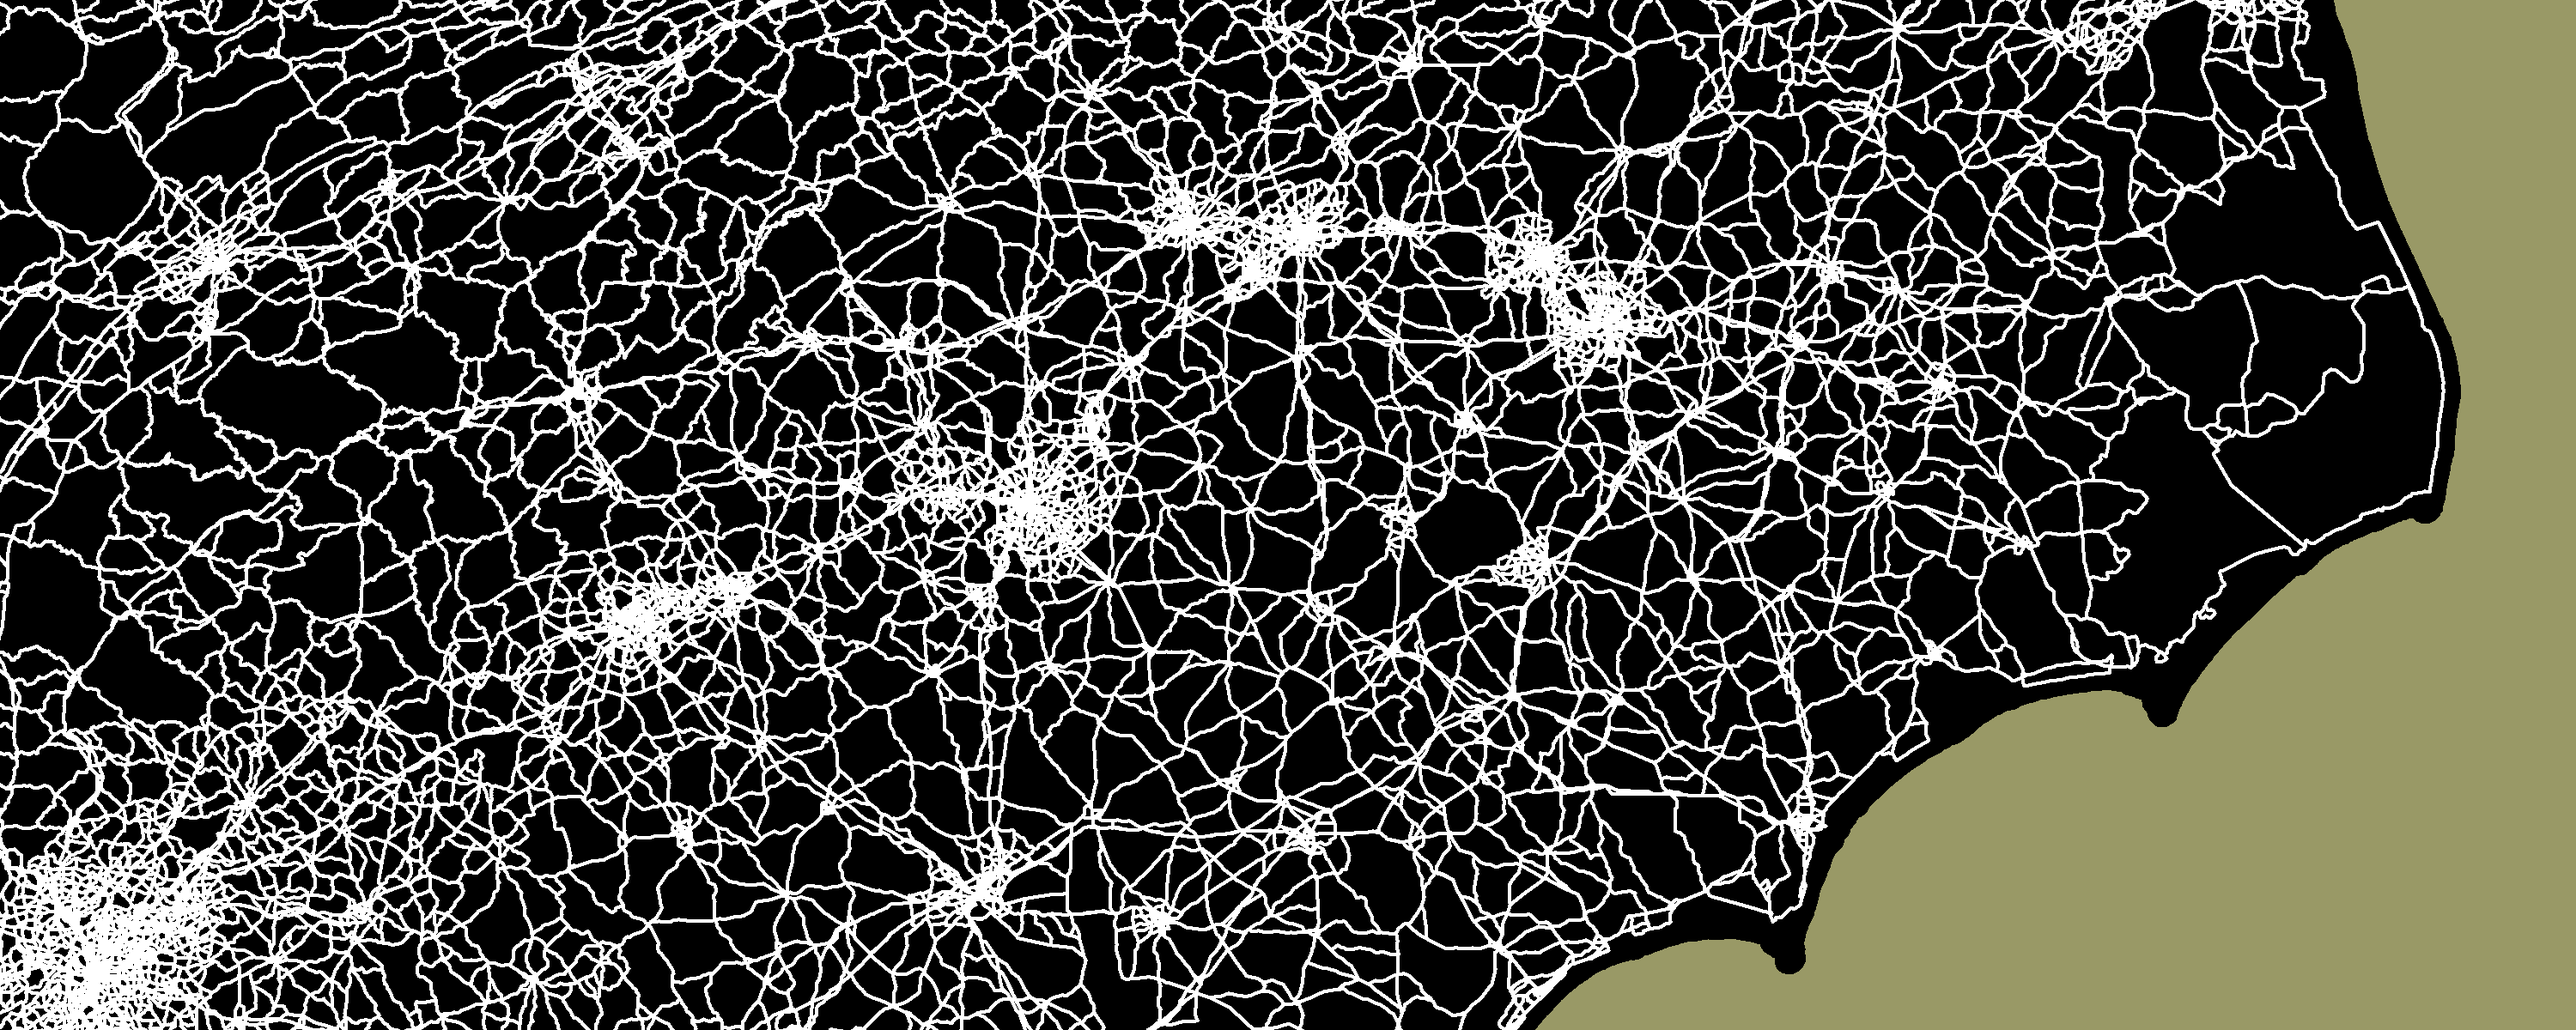
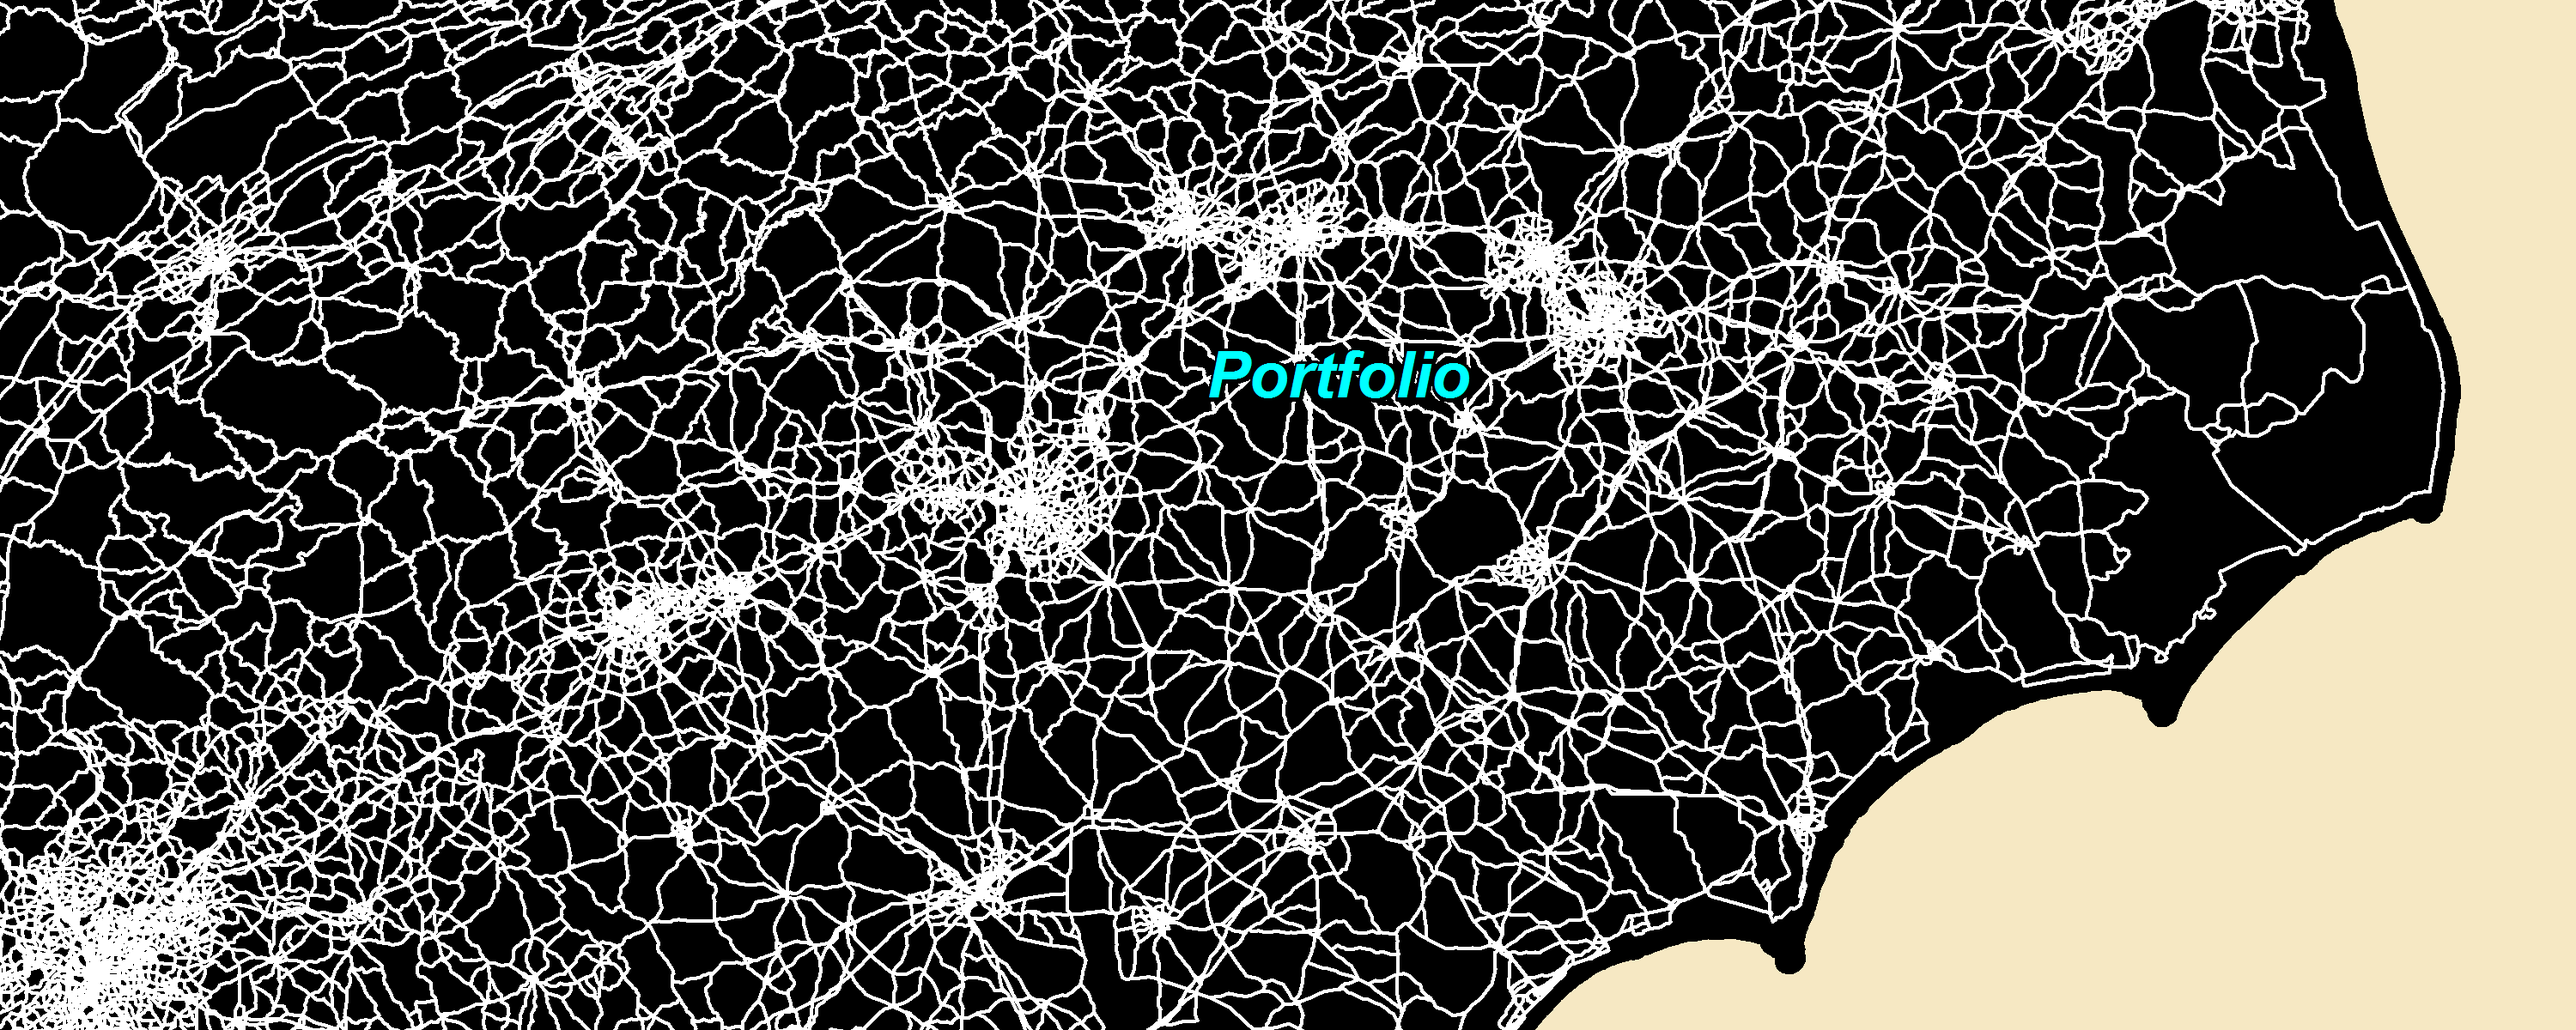
nc maps and colors

Changed region(s): [[0.589, 0.0, 1.0, 1.0], [0.465, 0.3392, 0.589, 0.4008]]

diff --git a/assets/css/screen.css b/assets/css/screen.css
@@ -4,7 +4,7 @@
    height:100%;
 	 padding: 20px;
 	 position: relative;
-	 background-color: #999966;
+	 background-color: #f6e8c3;
 	 border: solid 5px;
 	 border-color: black;
 }
@@ -24,7 +24,7 @@ h3 {
 }
 body,html {
 	font-family: 'Montserrat', sans-serif;
-    background-color: #80cdc1;
+    background-color: #5ab4ac;
 	margin: 0 auto;
 }
 ul {
@@ -100,7 +100,7 @@ a.two:link, a.two:visited {
     padding: 5px 5px;
 }
 a.one:hover {
-    background-color: grey;
+    background-color: #5ab4ac;
 }
 .exp {
 }
